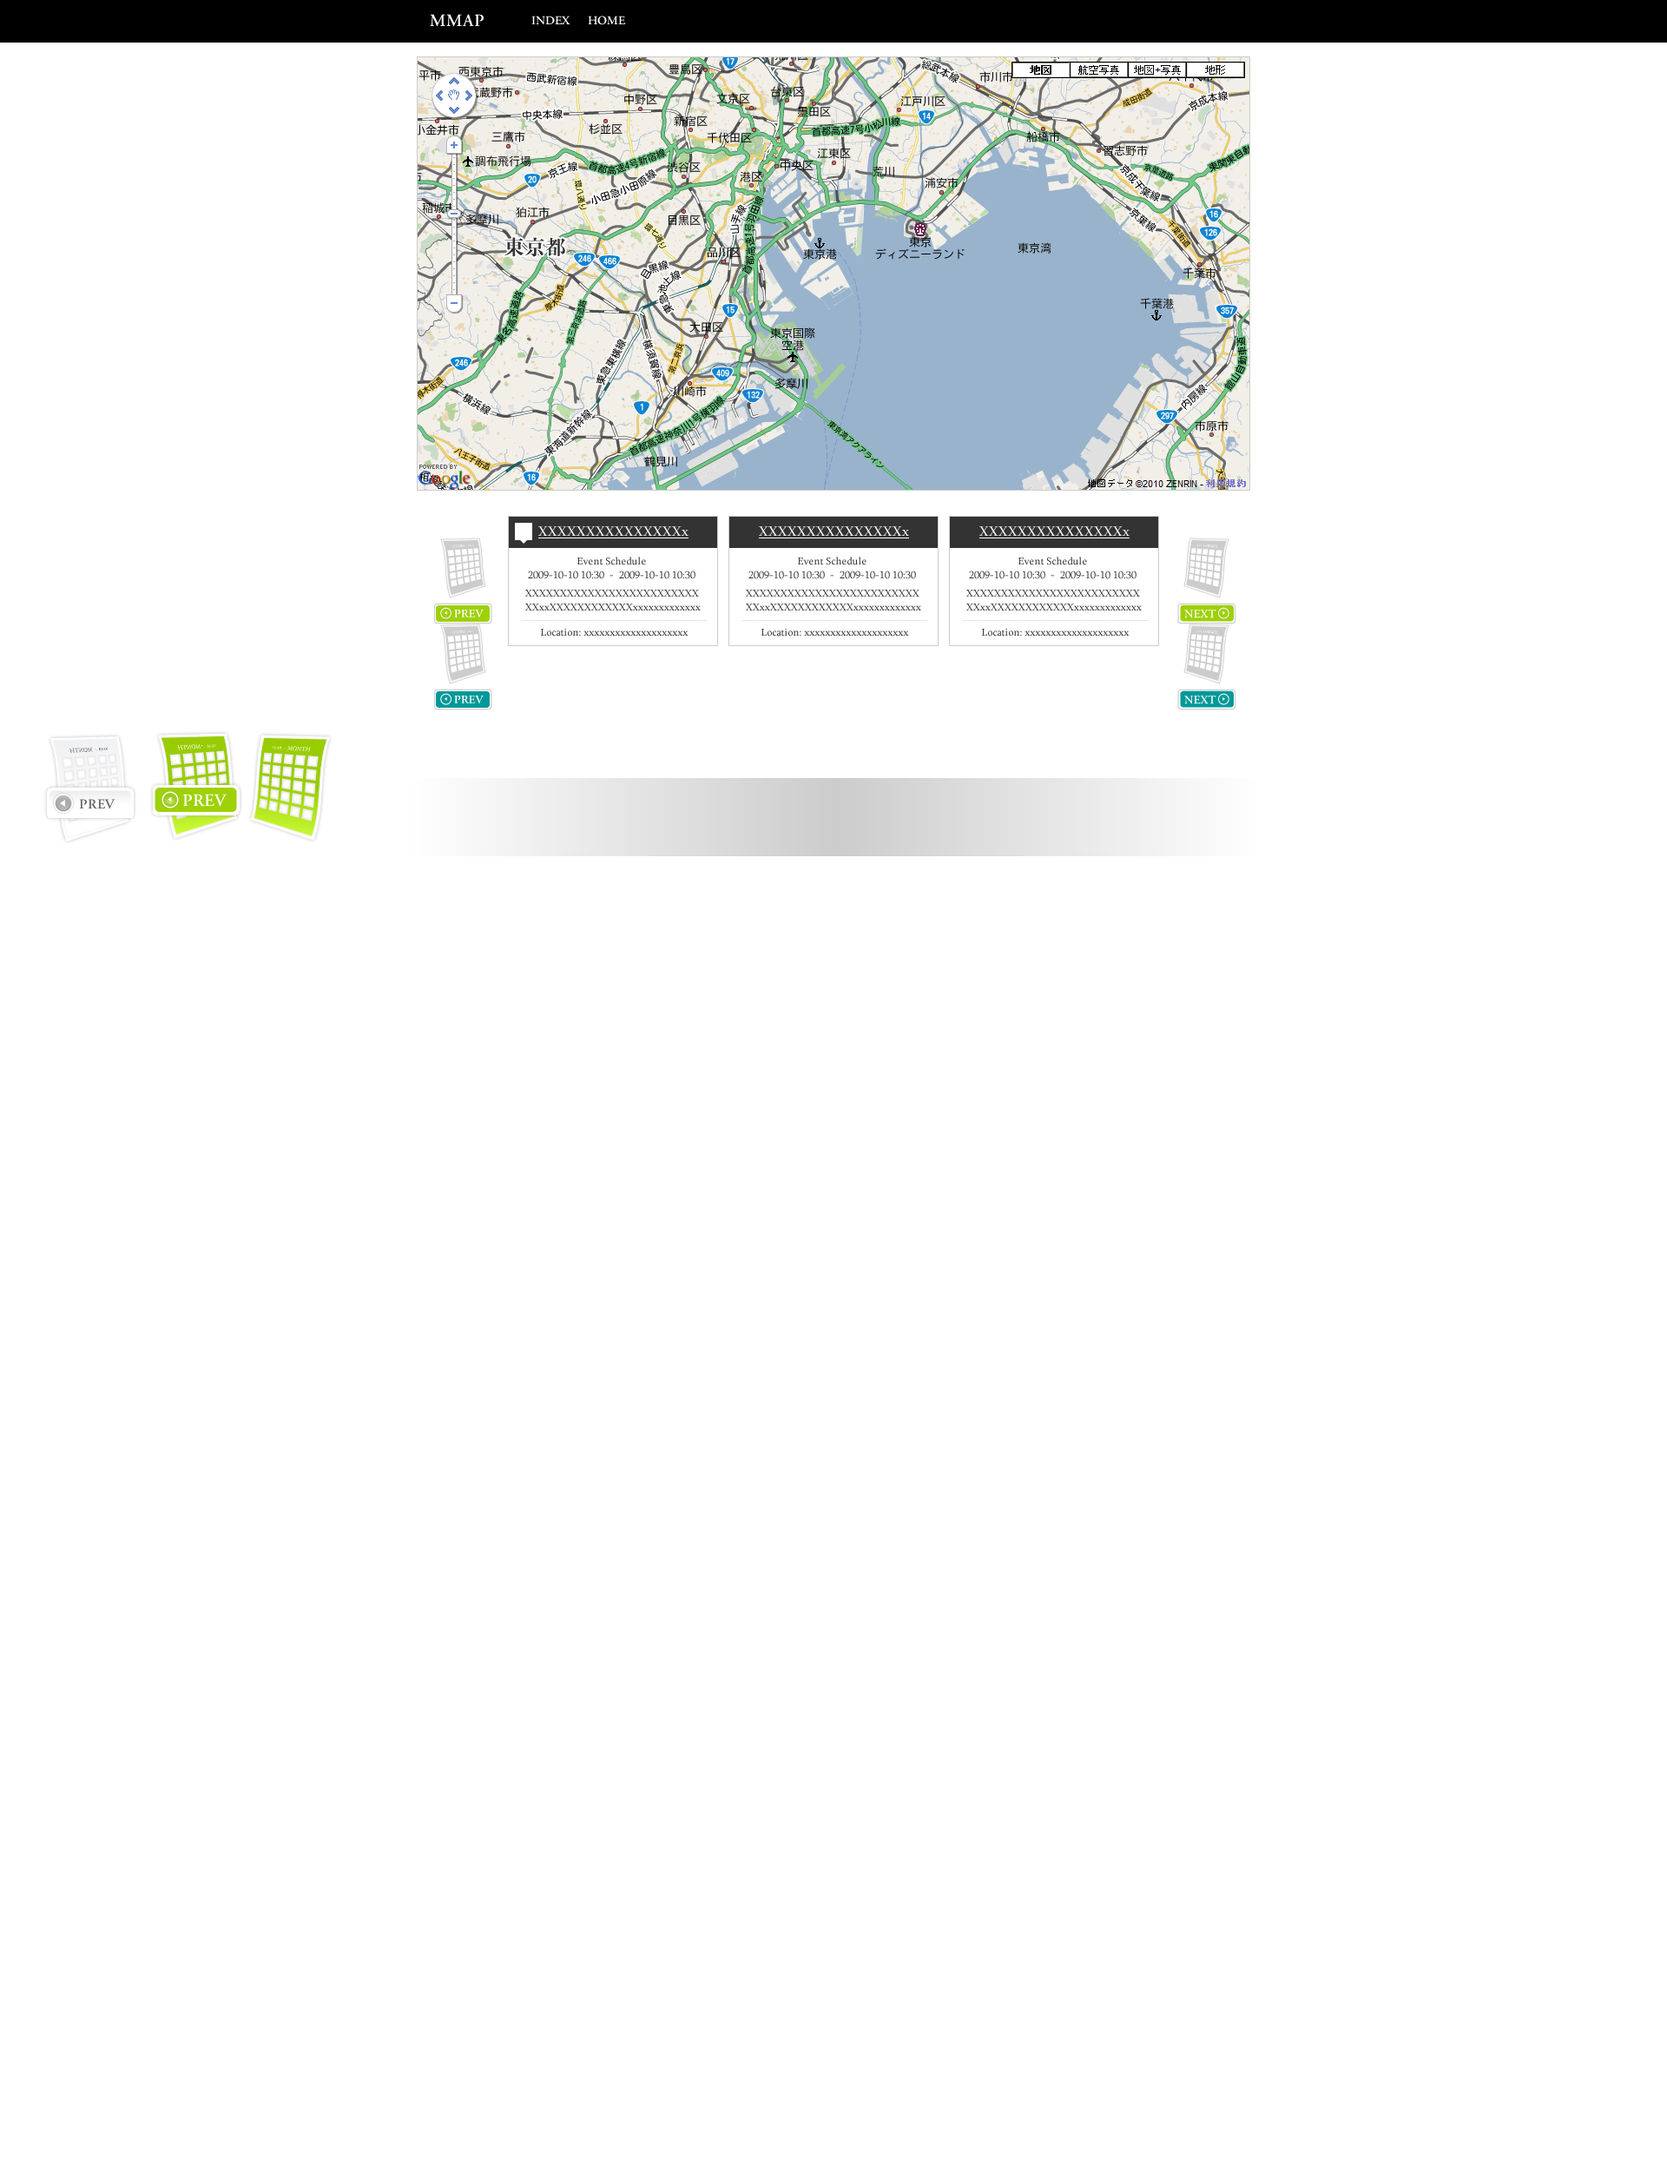
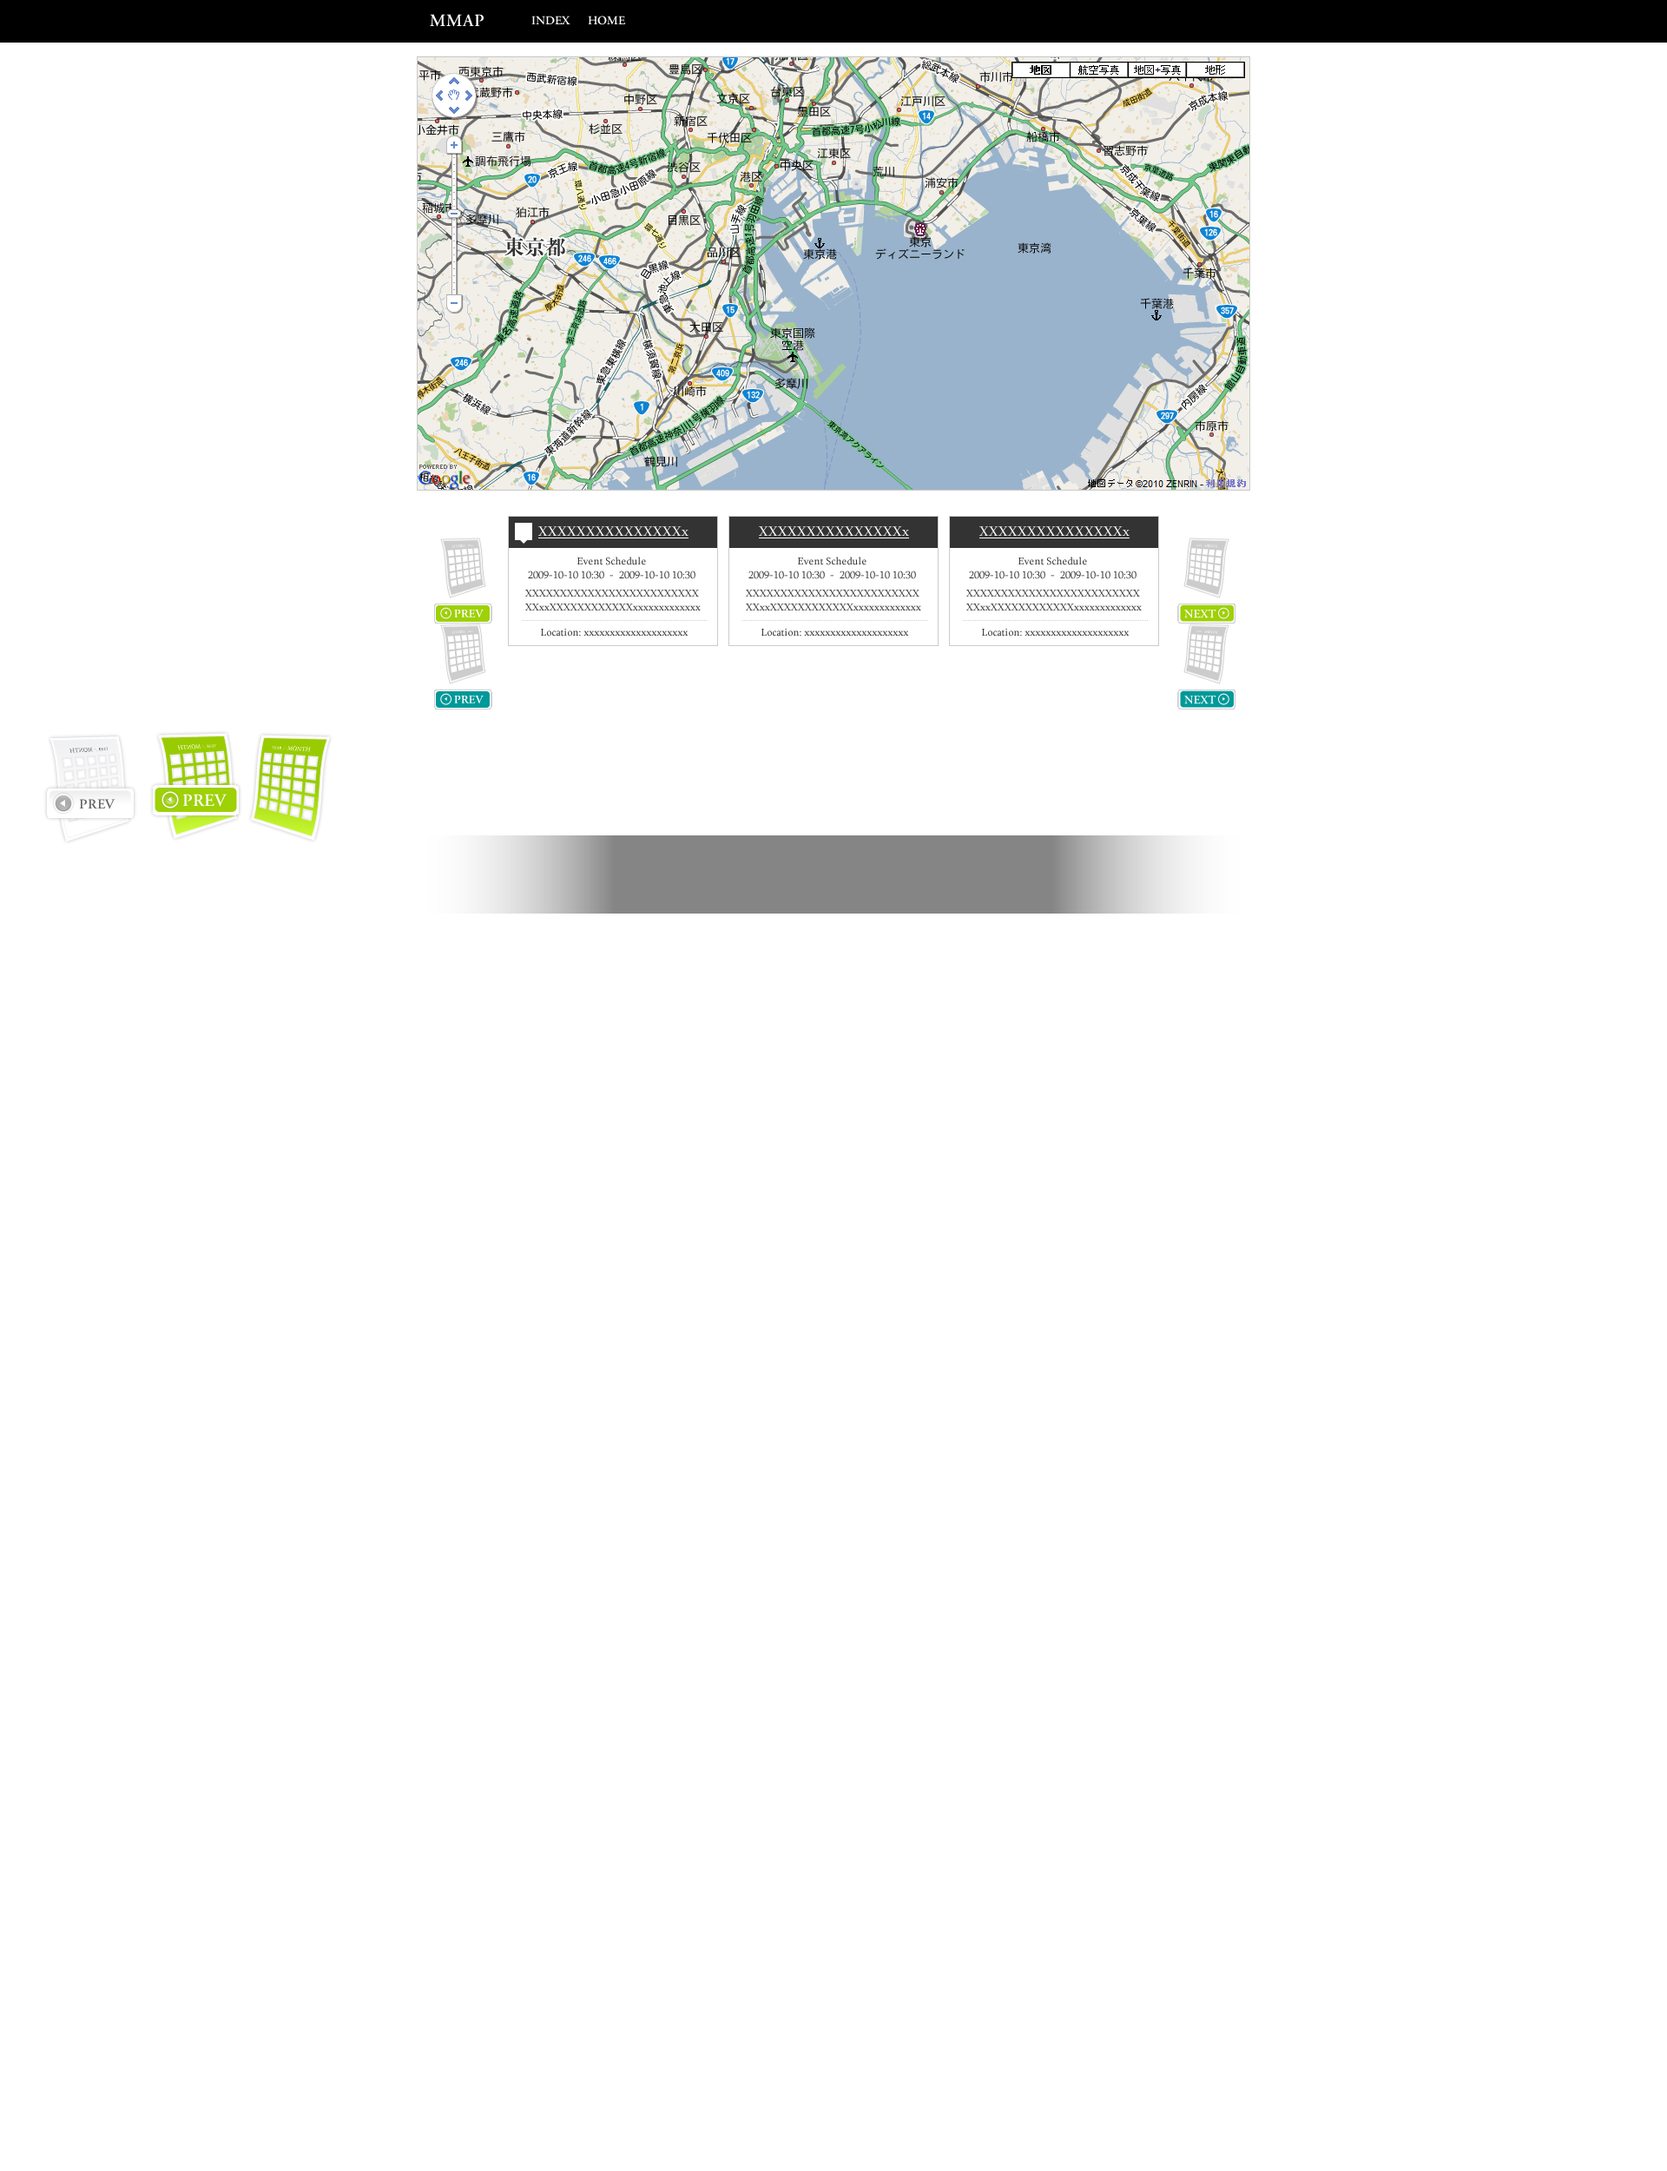
demo pages design changed.

Changed region(s): [[0.2812, 0.3432, 0.7188, 0.4368]]

diff --git a/index.html b/index.html
@@ -17,17 +17,7 @@
 		<script type="text/javascript" src="js/mmap/MMap.Marker.js"></script>
 		<script type="text/javascript" src="js/mmap/MMap.Marker.Image.js"></script>
 		<script type="text/javascript" src="js/mmap/MMap.Marker.Images.js"></script>
-		<script type="text/javascript">
-
-			window.addEvent("load", function(){
-				var map = new MMap($("map"), {
-					"center": {"lat": 35.6666870, "lng": 139.731859},
-					"zoom": 10,
-					"mapType": "roadmap"
-				});
-			});
-
-		</script>
+		<script type="text/javascript" src="js/home.js"></script>
 	</head>
 	<body>
 		<div class="page gs960">
@@ -52,6 +42,8 @@
 
 						<div class="vcalendar">
 							<h2>Events List</h2>
+
+						<div class="vevens">
 	
 							<div class="unit size1of3">
 								<div class="mod vevent before">
@@ -74,7 +66,7 @@
 								</div>
 								</div>
 							</div>
-	
+
 							<div class="unit size1of3 lastUnit">
 								<div class="mod vevent after">
 								<div class="inner">
@@ -85,6 +77,41 @@
 								</div>
 								</div>
 							</div>
+
+
+							<div class="unit size1of3 lastUnit">
+								<div class="mod vevent after">
+								<div class="inner">
+									<h3 class="summary"><a class="url" href="#">XYZ Project Review - A</a></h3>
+									<p><strong>event schedule</strong><br /><abbr class="dtstart" title="1998-03-12T08:30:00-05:00">2010-05-11 10:00</abbr> - <abbr class="dtend" title="1998-03-12T09:30:00-05:00">2010-05-11 11:00</abbr></p>
+									<p class="description">Project XYZ Review Meeting</p>
+									<p class="location"><strong>Location:</strong><abbr title="35.6666870;139.731859" class="location geo">1CP Conference Room 4350</span></p>
+								</div>
+								</div>
+							</div>
+
+							<div class="unit size1of3 lastUnit">
+								<div class="mod vevent after">
+								<div class="inner">
+									<h3 class="summary"><a class="url" href="#">XYZ Project Review - A</a></h3>
+									<p><strong>event schedule</strong><br /><abbr class="dtstart" title="1998-03-12T08:30:00-05:00">2010-05-11 10:00</abbr> - <abbr class="dtend" title="1998-03-12T09:30:00-05:00">2010-05-11 11:00</abbr></p>
+									<p class="description">Project XYZ Review Meeting</p>
+									<p class="location"><strong>Location:</strong><abbr title="35.6666870;139.731859" class="location geo">1CP Conference Room 4350</span></p>
+								</div>
+								</div>
+							</div>
+
+							<div class="unit size1of3 lastUnit">
+								<div class="mod vevent after">
+								<div class="inner">
+									<h3 class="summary"><a class="url" href="#">XYZ Project Review - A</a></h3>
+									<p><strong>event schedule</strong><br /><abbr class="dtstart" title="1998-03-12T08:30:00-05:00">2010-05-11 10:00</abbr> - <abbr class="dtend" title="1998-03-12T09:30:00-05:00">2010-05-11 11:00</abbr></p>
+									<p class="description">Project XYZ Review Meeting</p>
+									<p class="location"><strong>Location:</strong><abbr title="35.6666870;139.731859" class="location geo">1CP Conference Room 4350</span></p>
+								</div>
+								</div>
+							</div>
+						</div>
 						</div>
 						<ul class="contentController">
 							<li><a class="prev prevEvent"  title="Prev Event" href="#">Prev Event</a></li>

diff --git a/js/home.js b/js/home.js
@@ -1,0 +1,76 @@
+var EventController = new Class({
+
+	options: {
+		"per": 3,
+		"controller": "contentController"
+	},
+
+	initialize: function(container) {
+		this.container = container;
+		this.controller = $(this.container).getElement("." + this.options.controller);
+		this.events = $(this.container).getElement("." + this.options.controller);
+		this.prev = $(this.controller).getElement(".prev");
+		this.next = $(this.controller).getElement(".next");
+		this.current = 0;
+	},
+
+	set: function(index) {
+		var start = 0, end = 0;
+
+		this.current = index;
+		if (index == 0) {
+			start = index, end = index + 3;
+		} else if (index == this.events.length) {
+			start = index - 3, end = index;
+		} else {
+			start = index, end = index + 3;
+		}
+
+		this.events.each(function(event, key) {
+			(start >= index && end <= index)
+			? event.setStyle("display", "")
+			: event.setStyle("display", "none");
+		});
+	},
+
+	getRange: function(index) {
+		var range = {"start": index, "end": index};
+		if (index == 0) {
+			range.end = index + 2;
+		} else if (index == this.events.length) {
+			range.start = range.start - 2;
+		} else {
+			range.start	= index - 1;
+			range.end	= index + 1;
+		}
+		return range;
+	},
+	
+	prev: function() {
+		if (this.current - 1 > 0) return false;
+		this.current--;
+		this.set(this.current);
+	},
+
+	next: function() {
+		if (this.current + 1 <= this.events.length) return false;
+		this.current++;
+		this.set(this.current);
+	}
+	
+});
+
+
+var Home = {
+
+	initialize: function() {
+		this.map = new MMap($("map"), {
+			"center": {"lat": 35.6666870, "lng": 139.731859},
+			"zoom": 10,
+			"mapType": "roadmap"
+		});
+	}
+
+};
+
+window.addEvent("domready", Home.initialize.bind(this));

diff --git a/css/mod.css b/css/mod.css
@@ -61,7 +61,7 @@ h1 {
 /*---------- hCalender ----------*/
 .vcalendar {
 	width: 750px;
-	margin: 0px auto;
+	margin: -100px auto 0px auto;
 }
 
 .vevent {
@@ -102,7 +102,7 @@ h1 {
 .current { margin-left: 5px; margin-right: 5px; }
 
 .controller {
-	background: url(../images/bgi_control.jpg) no-repeat center 70px;
+	background: url(../images/bgi_control.png) no-repeat center 70px;
 	position: relative;
 }
 
